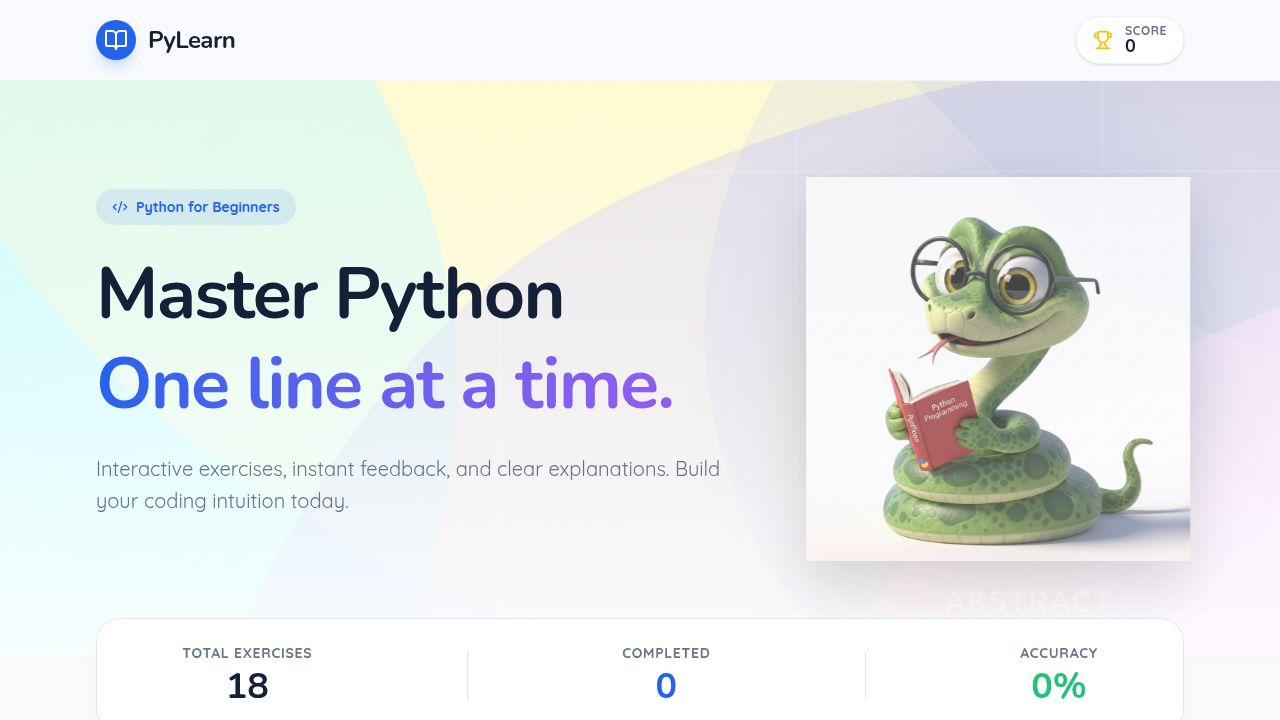
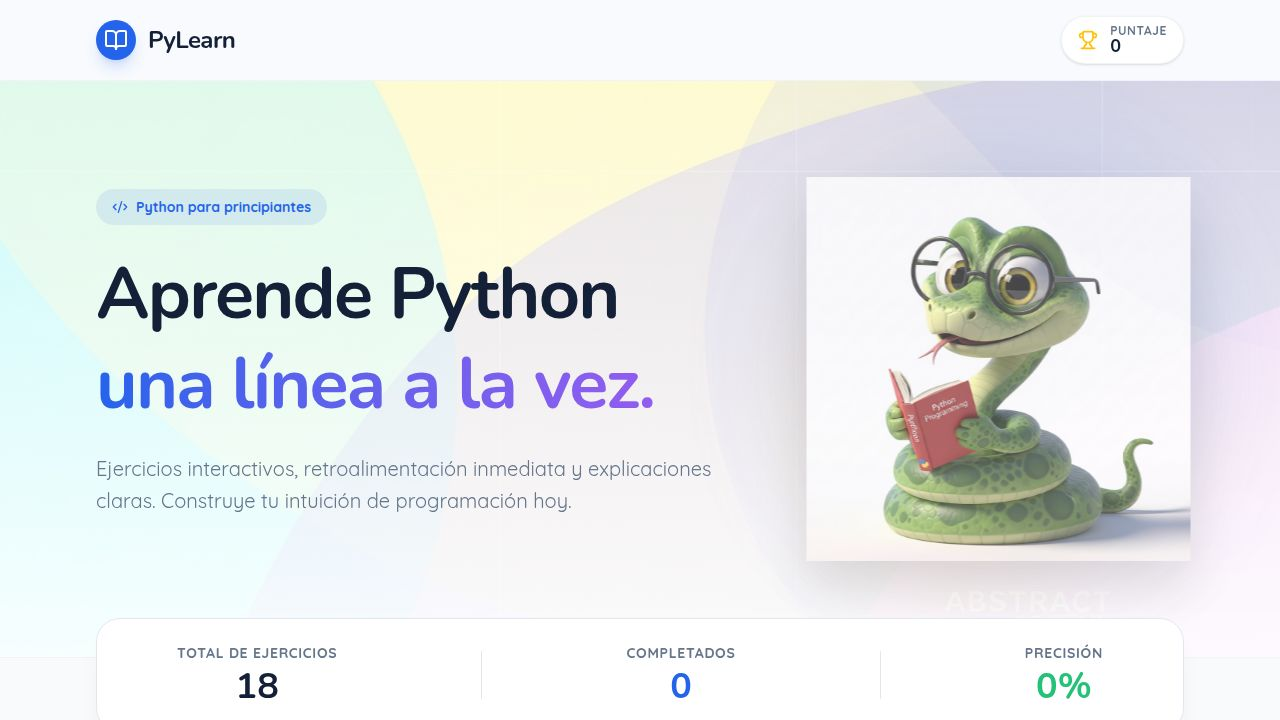
Translate the application interface and content to Spanish
Update UI elements, page content, and alt text across the frontend application to use Spanish, improving accessibility for Spanish-speaking users.

Replit-Commit-Author: Agent
Replit-Commit-Session-Id: ee60ced2-6da0-4eda-a2a0-7dc4748e8406
Replit-Commit-Checkpoint-Type: full_checkpoint
Replit-Commit-Event-Id: 6cafeed9-458e-465a-b820-5aee05ae82c3
Replit-Commit-Screenshot-Url: https://storage.googleapis.com/screenshot-production-us-central1/9ef55c28-006f-4468-ab82-93d0fe11ee5b/ee60ced2-6da0-4eda-a2a0-7dc4748e8406/nix9Awx
Replit-Helium-Checkpoint-Created: true

diff --git a/artifacts/python-exercises/src/pages/ExerciseView.tsx b/artifacts/python-exercises/src/pages/ExerciseView.tsx
@@ -6,14 +6,30 @@ import {
   useGetExercises, 
   useCheckAnswer, 
   AnswerResult,
-  ExerciseType
 } from "@workspace/api-client-react";
 import { Navbar } from "@/components/Navbar";
 import { CodeBlock } from "@/components/CodeBlock";
 import { Button } from "@/components/ui/button";
 import { Card } from "@/components/ui/card";
-import { Lightbulb, CheckCircle2, XCircle, ArrowRight, Zap, RefreshCcw } from "lucide-react";
+import { Lightbulb, CheckCircle2, XCircle, ArrowRight, Zap } from "lucide-react";
 import { cn } from "@/lib/utils";
+
+const difficultyLabels: Record<string, string> = {
+  beginner: "Principiante",
+  intermediate: "Intermedio",
+  advanced: "Avanzado",
+};
+
+const difficultyColors: Record<string, string> = {
+  beginner: "bg-green-100 text-green-700",
+  intermediate: "bg-yellow-100 text-yellow-700",
+  advanced: "bg-red-100 text-red-700",
+};
+
+const typePlaceholders: Record<string, string> = {
+  fill_blank: "Escribe el código que falta...",
+  predict_output: "Escribe lo que imprimiría el código...",
+};
 
 export function ExerciseView() {
   const [, params] = useRoute("/exercise/:id");
@@ -28,7 +44,6 @@ export function ExerciseView() {
   const [showHint, setShowHint] = useState(false);
   const [result, setResult] = useState<AnswerResult | null>(null);
 
-  // Reset state when exercise changes
   useEffect(() => {
     setSelectedAnswer("");
     setShowHint(false);
@@ -81,7 +96,7 @@ export function ExerciseView() {
       <Navbar backTo="/" />
 
       <main className="max-w-4xl mx-auto px-4 sm:px-6 lg:px-8 mt-8">
-        {/* Header info */}
+        {/* Encabezado */}
         <div className="flex items-center justify-between mb-6">
           <div className="flex items-center gap-3">
             <span className="px-3 py-1 bg-primary/10 text-primary font-bold text-xs rounded-full uppercase tracking-wider">
@@ -89,15 +104,13 @@ export function ExerciseView() {
             </span>
             <span className={cn(
               "px-3 py-1 font-bold text-xs rounded-full uppercase tracking-wider",
-              exercise.difficulty === "beginner" ? "bg-green-100 text-green-700" :
-              exercise.difficulty === "intermediate" ? "bg-yellow-100 text-yellow-700" :
-              "bg-red-100 text-red-700"
+              difficultyColors[exercise.difficulty] ?? "bg-gray-100 text-gray-700"
             )}>
-              {exercise.difficulty}
+              {difficultyLabels[exercise.difficulty] ?? exercise.difficulty}
             </span>
           </div>
           <span className="text-muted-foreground font-bold text-sm">
-            Exercise {exercise.orderIndex}
+            Ejercicio {exercise.orderIndex}
           </span>
         </div>
 
@@ -107,7 +120,7 @@ export function ExerciseView() {
 
         <div className="grid grid-cols-1 lg:grid-cols-5 gap-8">
           
-          {/* Left Column: Context & Code */}
+          {/* Columna izquierda: Contexto y código */}
           <div className="lg:col-span-3 space-y-6">
             <div className="prose prose-slate max-w-none text-foreground/80 leading-relaxed text-lg">
               <p>{exercise.description}</p>
@@ -125,7 +138,7 @@ export function ExerciseView() {
                     className="flex items-center gap-2 text-secondary font-bold hover:text-secondary/80 transition-colors"
                   >
                     <Lightbulb className="w-5 h-5" />
-                    Show Hint
+                    Ver pista
                   </button>
                 ) : (
                   <motion.div 
@@ -141,12 +154,12 @@ export function ExerciseView() {
             )}
           </div>
 
-          {/* Right Column: Interaction */}
+          {/* Columna derecha: Interacción */}
           <div className="lg:col-span-2 space-y-6 relative">
             <Card className="p-6 sticky top-24">
               <h3 className="font-display font-bold text-xl mb-4 flex items-center gap-2">
                 <Zap className="w-5 h-5 text-accent" />
-                Your Answer
+                Tu respuesta
               </h3>
 
               {isMultipleChoice && exercise.options && (
@@ -198,8 +211,9 @@ export function ExerciseView() {
                       type="text"
                       value={selectedAnswer}
                       onChange={(e) => setSelectedAnswer(e.target.value)}
+                      onKeyDown={(e) => e.key === "Enter" && !hasAnswered && handleSubmit()}
                       disabled={hasAnswered}
-                      placeholder={exercise.type === "fill_blank" ? "Type the missing code..." : "Type the output..."}
+                      placeholder={typePlaceholders[exercise.type ?? ""] ?? "Escribe tu respuesta..."}
                       className={cn(
                         "w-full bg-slate-50 border-2 border-border rounded-xl px-5 py-4 font-mono text-lg focus:outline-none focus:border-primary focus:ring-4 focus:ring-primary/10 transition-all",
                         hasAnswered && result?.correct && "border-success bg-success/5 text-success font-bold focus:ring-0",
@@ -212,7 +226,7 @@ export function ExerciseView() {
                   
                   {hasAnswered && !result?.correct && result?.correctAnswer && (
                     <div className="text-sm font-medium text-slate-500 mt-2 flex items-center gap-2">
-                      Correct answer: <code className="bg-slate-100 px-2 py-1 rounded text-foreground">{result.correctAnswer}</code>
+                      Respuesta correcta: <code className="bg-slate-100 px-2 py-1 rounded text-foreground">{result.correctAnswer}</code>
                     </div>
                   )}
                 </div>
@@ -225,7 +239,7 @@ export function ExerciseView() {
                   onClick={handleSubmit}
                   disabled={!selectedAnswer || checkMutation.isPending}
                 >
-                  {checkMutation.isPending ? "Checking..." : "Submit Answer"}
+                  {checkMutation.isPending ? "Verificando..." : "Enviar respuesta"}
                 </Button>
               ) : (
                 <Button 
@@ -234,11 +248,11 @@ export function ExerciseView() {
                   variant={result.correct ? "success" : "default"}
                   onClick={handleNext}
                 >
-                  Continue <ArrowRight className="w-5 h-5 ml-2" />
+                  Continuar <ArrowRight className="w-5 h-5 ml-2" />
                 </Button>
               )}
 
-              {/* Feedback Animation Area */}
+              {/* Área de retroalimentación */}
               <AnimatePresence>
                 {hasAnswered && (
                   <motion.div
@@ -252,12 +266,12 @@ export function ExerciseView() {
                     <h4 className={cn("font-bold text-lg mb-1 flex items-center gap-2", 
                       result.correct ? "text-success" : "text-destructive"
                     )}>
-                      {result.correct ? "Awesome!" : "Not quite."}
+                      {result.correct ? "¡Muy bien!" : "Casi, sigue intentando."}
                     </h4>
                     <p className="text-sm leading-relaxed">{result.feedback}</p>
                     {result.correct && exercise.explanation && (
                       <div className="mt-3 pt-3 border-t border-success/20 text-sm">
-                        <span className="font-bold block mb-1">Why it works:</span>
+                        <span className="font-bold block mb-1">¿Por qué funciona así?</span>
                         {exercise.explanation}
                       </div>
                     )}

diff --git a/artifacts/python-exercises/src/pages/Home.tsx b/artifacts/python-exercises/src/pages/Home.tsx
@@ -1,7 +1,7 @@
 import { useGetExercises, useGetProgress } from "@workspace/api-client-react";
 import { Link } from "wouter";
 import { motion } from "framer-motion";
-import { Play, Code2, Brain, ChevronRight, CheckCircle2 } from "lucide-react";
+import { Play, Code2, Brain, CheckCircle2 } from "lucide-react";
 import { Navbar } from "@/components/Navbar";
 
 export function Home() {
@@ -16,7 +16,6 @@ export function Home() {
     );
   }
 
-  // Group exercises by topic
   const topicsMap = exercises?.reduce((acc, ex) => {
     if (!acc[ex.topic]) {
       acc[ex.topic] = [];
@@ -49,12 +48,12 @@ export function Home() {
     <div className="min-h-screen bg-background pb-20">
       <Navbar />
       
-      {/* Hero Section */}
+      {/* Sección Principal */}
       <div className="relative overflow-hidden bg-white border-b border-border/50">
         <div className="absolute inset-0 z-0">
           <img 
             src={`${import.meta.env.BASE_URL}images/hero-bg.png`} 
-            alt="Abstract educational background" 
+            alt="Fondo educativo abstracto" 
             className="w-full h-full object-cover opacity-60"
           />
           <div className="absolute inset-0 bg-gradient-to-b from-white/40 to-white/90" />
@@ -70,7 +69,7 @@ export function Home() {
                 className="inline-flex items-center gap-2 px-4 py-2 rounded-full bg-primary/10 text-primary font-bold text-sm mb-6"
               >
                 <Code2 className="w-4 h-4" />
-                Python for Beginners
+                Python para principiantes
               </motion.div>
               <motion.h1 
                 initial={{ opacity: 0, y: 20 }}
@@ -78,9 +77,9 @@ export function Home() {
                 transition={{ duration: 0.5, delay: 0.1 }}
                 className="text-5xl md:text-7xl font-bold font-display text-foreground leading-tight mb-6"
               >
-                Master Python <br/>
+                Aprende Python <br/>
                 <span className="text-transparent bg-clip-text bg-gradient-to-r from-primary to-accent">
-                  One line at a time.
+                  una línea a la vez.
                 </span>
               </motion.h1>
               <motion.p 
@@ -89,7 +88,7 @@ export function Home() {
                 transition={{ duration: 0.5, delay: 0.2 }}
                 className="text-xl text-muted-foreground max-w-2xl mx-auto md:mx-0 mb-8 leading-relaxed"
               >
-                Interactive exercises, instant feedback, and clear explanations. Build your coding intuition today.
+                Ejercicios interactivos, retroalimentación inmediata y explicaciones claras. Construye tu intuición de programación hoy.
               </motion.p>
             </div>
             
@@ -103,7 +102,7 @@ export function Home() {
                 <div className="absolute inset-0 bg-gradient-to-tr from-secondary/40 to-primary/40 blur-3xl rounded-full" />
                 <img 
                   src={`${import.meta.env.BASE_URL}images/python-mascot.png`} 
-                  alt="Friendly Python Mascot" 
+                  alt="Mascota amigable de Python" 
                   className="w-full h-auto drop-shadow-2xl relative z-10 hover:-translate-y-2 transition-transform duration-500"
                 />
               </div>
@@ -112,21 +111,21 @@ export function Home() {
         </div>
       </div>
 
-      {/* Progress Overview */}
+      {/* Resumen de progreso */}
       <div className="max-w-6xl mx-auto px-4 sm:px-6 lg:px-8 -mt-10 relative z-20">
         <div className="bg-white rounded-3xl shadow-xl shadow-black/5 border border-border p-6 flex items-center justify-around flex-wrap gap-8">
           <div className="text-center">
-            <p className="text-muted-foreground font-bold uppercase tracking-wider text-sm mb-1">Total Exercises</p>
+            <p className="text-muted-foreground font-bold uppercase tracking-wider text-sm mb-1">Total de ejercicios</p>
             <p className="text-4xl font-display font-bold text-foreground">{progress?.totalExercises || 0}</p>
           </div>
           <div className="w-px h-12 bg-border hidden sm:block"></div>
           <div className="text-center">
-            <p className="text-muted-foreground font-bold uppercase tracking-wider text-sm mb-1">Completed</p>
+            <p className="text-muted-foreground font-bold uppercase tracking-wider text-sm mb-1">Completados</p>
             <p className="text-4xl font-display font-bold text-primary">{progress?.completedExercises || 0}</p>
           </div>
           <div className="w-px h-12 bg-border hidden sm:block"></div>
           <div className="text-center">
-            <p className="text-muted-foreground font-bold uppercase tracking-wider text-sm mb-1">Accuracy</p>
+            <p className="text-muted-foreground font-bold uppercase tracking-wider text-sm mb-1">Precisión</p>
             <p className="text-4xl font-display font-bold text-success">
               {progress?.totalExercises ? Math.round((progress.correctAnswers / progress.completedExercises) * 100) || 0 : 0}%
             </p>
@@ -134,11 +133,11 @@ export function Home() {
         </div>
       </div>
 
-      {/* Topics Grid */}
+      {/* Cuadrícula de temas */}
       <div className="max-w-6xl mx-auto px-4 sm:px-6 lg:px-8 mt-20">
         <div className="flex items-center gap-3 mb-8">
           <Brain className="w-8 h-8 text-primary" />
-          <h2 className="text-3xl font-display font-bold">Choose a Topic</h2>
+          <h2 className="text-3xl font-display font-bold">Elige un tema</h2>
         </div>
 
         <motion.div 
@@ -176,7 +175,7 @@ export function Home() {
                   
                   <div className="mt-8">
                     <div className="flex justify-between text-sm font-bold text-muted-foreground mb-2">
-                      <span>{percent}% Complete</span>
+                      <span>{percent}% completado</span>
                       <span>{topic.completed} / {topic.total}</span>
                     </div>
                     <div className="w-full h-3 bg-muted rounded-full overflow-hidden">

diff --git a/artifacts/python-exercises/src/pages/not-found.tsx b/artifacts/python-exercises/src/pages/not-found.tsx
@@ -10,12 +10,12 @@ export default function NotFound() {
           <Bug className="w-12 h-12 text-primary" />
         </div>
         <h1 className="text-6xl font-display font-bold text-foreground mb-4">404</h1>
-        <h2 className="text-2xl font-bold text-slate-700 mb-4">Page not found</h2>
+        <h2 className="text-2xl font-bold text-slate-700 mb-4">Página no encontrada</h2>
         <p className="text-muted-foreground mb-8">
-          Oops! Looks like we encountered a syntax error in our routing. This page doesn't exist.
+          ¡Ups! Parece que encontramos un error en nuestra navegación. Esta página no existe.
         </p>
         <Link href="/">
-          <Button size="lg">Return to Base</Button>
+          <Button size="lg">Volver al inicio</Button>
         </Link>
       </div>
     </div>

diff --git a/artifacts/python-exercises/src/components/Navbar.tsx b/artifacts/python-exercises/src/components/Navbar.tsx
@@ -30,7 +30,7 @@ export function Navbar({ backTo = null }: { backTo?: string | null }) {
             <div className="flex items-center gap-3 bg-white px-4 py-2 rounded-2xl shadow-sm border border-border/50">
               <Trophy className="w-5 h-5 text-secondary" />
               <div className="flex flex-col">
-                <span className="text-xs font-bold text-muted-foreground uppercase tracking-wider leading-none">Score</span>
+                <span className="text-xs font-bold text-muted-foreground uppercase tracking-wider leading-none">Puntaje</span>
                 <span className="font-display font-bold text-lg leading-none text-foreground">{progress.correctAnswers}</span>
               </div>
             </div>
